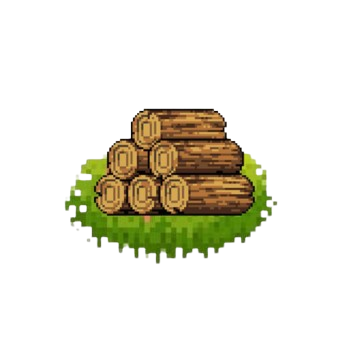
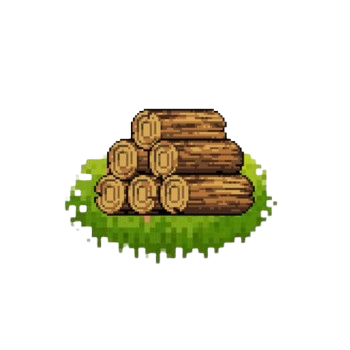
Agrego inicio y reinicio de ahorcado

Changed region(s): [[0.1714, 0.2857, 0.8, 0.7714]]

diff --git a/src/app/components/ahorcado/ahorcado.html b/src/app/components/ahorcado/ahorcado.html
@@ -1,23 +1,54 @@
-<img src="assets/ahorcado/{{(6 - intentosRestantes)}}.png">
 
-@if (juegoTerminado) {
-  <h2>{{ gano ? 'Ganaste' : 'Perdiste' }}</h2>
+<h2>Ahorcado</h2>
+@if(!juegoIniciado()){
+  <div class="pantalla-inicio">
+
+    <img
+      src="assets/ahorcado/inicio.png"
+      class="carta">
+
+    <button (click)="iniciarJuego()">
+      Iniciar Juego
+    </button>
+
+  </div>
+}@else{
+  
+  @if (rondaTerminada()) {
+    <h2>{{ gano() ? 'Ganaste' : 'Perdiste' }}</h2>
+  }
+
+  @if(gano()){
+    <img src="assets/ahorcado/victoria.png">
+  }@else{
+    <img src="assets/ahorcado/{{(6 - intentosRestantes)}}.png">
+  }
+
+  <div class="palabra">
+
+    @for (letra of mostrarPalabra(); track $index) {
+      <span>
+        {{ letra }}
+      </span>
+    }
+
+  </div>
+
+  <div class="teclado">
+
+    @for (letra of abecedario; track letra) {
+      <button (click)="seleccionarLetra(letra)" [disabled]=" letrasElegidas.includes(letra) || rondaTerminada() ">{{ letra }}</button>
+    }
+
+  </div>
+
+  @if (rondaTerminada()) {
+    <button (click)="iniciarJuego()">
+        Reiniciar
+    </button>
+
+    <button (click)="juegoIniciado.set(false)">
+        Volver
+    </button>
+  }
 }
-
-<div class="palabra">
-
-  @for (letra of mostrarPalabra(); track $index) {
-    <span>
-      {{ letra }}
-    </span>
-  }
-
-</div>
-
-<div class="teclado">
-
-  @for (letra of abecedario; track letra) {
-    <button (click)="seleccionarLetra(letra)" [disabled]=" letrasElegidas.includes(letra) || juegoTerminado ">{{ letra }}</button>
-  }
-
-</div>

diff --git a/src/app/components/ahorcado/ahorcado.ts b/src/app/components/ahorcado/ahorcado.ts
@@ -1,4 +1,4 @@
-import { Component } from '@angular/core';
+import { Component, signal } from '@angular/core';
 import { PALABRAS, ABC } from '../../data/palabras';
 
 @Component({
@@ -19,13 +19,17 @@ export class Ahorcado {
 
   intentosRestantes: number = 6;
 
-  juegoTerminado = false;
+  juegoIniciado = signal<boolean>(false);
 
-  gano = false;
+  rondaTerminada = signal<boolean>(false);
+
+  gano = signal<boolean>(false);
 
   //inicioPartida = 0;
 
-  ngOnInit() {
+  iniciarJuego() {
+
+    this.juegoIniciado.set(true);
 
     const indice = Math.floor(
       Math.random() * this.palabras.length
@@ -37,9 +41,9 @@ export class Ahorcado {
 
     this.intentosRestantes = 6;
 
-    this.juegoTerminado = false;
+    this.rondaTerminada.set(false);
 
-    this.gano = false;
+    this.gano.set(false);
 
     //this.inicioPartida = Date.now();
 
@@ -69,9 +73,9 @@ export class Ahorcado {
 
   if (gano) {
 
-    this.juegoTerminado = true;
+    this.rondaTerminada.set(true);
 
-    this.gano = true;
+    this.gano.set(true);
 
     //this.guardarPartida();
 
@@ -79,9 +83,9 @@ export class Ahorcado {
 
   if (this.intentosRestantes <= 0) {
 
-      this.juegoTerminado = true;
+      this.rondaTerminada.set(true);
 
-      this.gano = false;
+      this.gano.set(false);
 
       //this.guardarPartida();
 